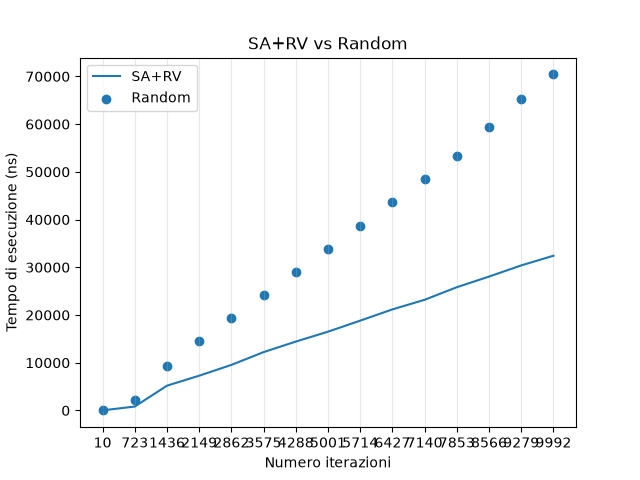
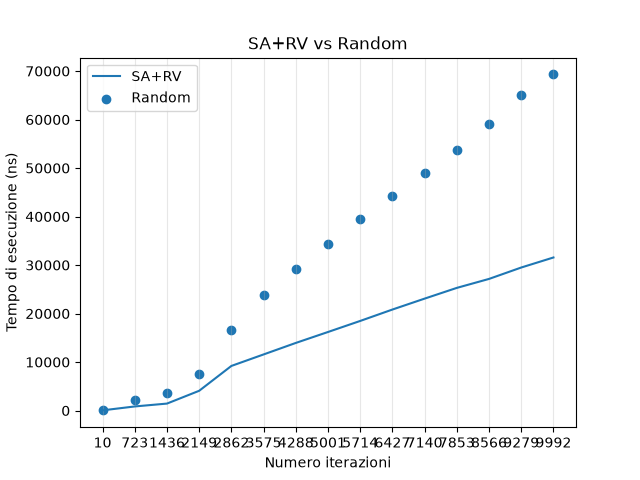
.

diff --git a/exec-time/stride.c b/exec-time/stride.c
@@ -16,10 +16,10 @@
 #define ITERS_STEPS 15
 
 // Valore di S.
-#define S 32
+#define S 16
 
 // Numero di misure eseguite per ciascun valore di ITERS.
-#define TRIES 1000
+#define TRIES 10000
 
 /**
  * Restituisce il tempo corrente in nanosecondi. Si appoggia alla
